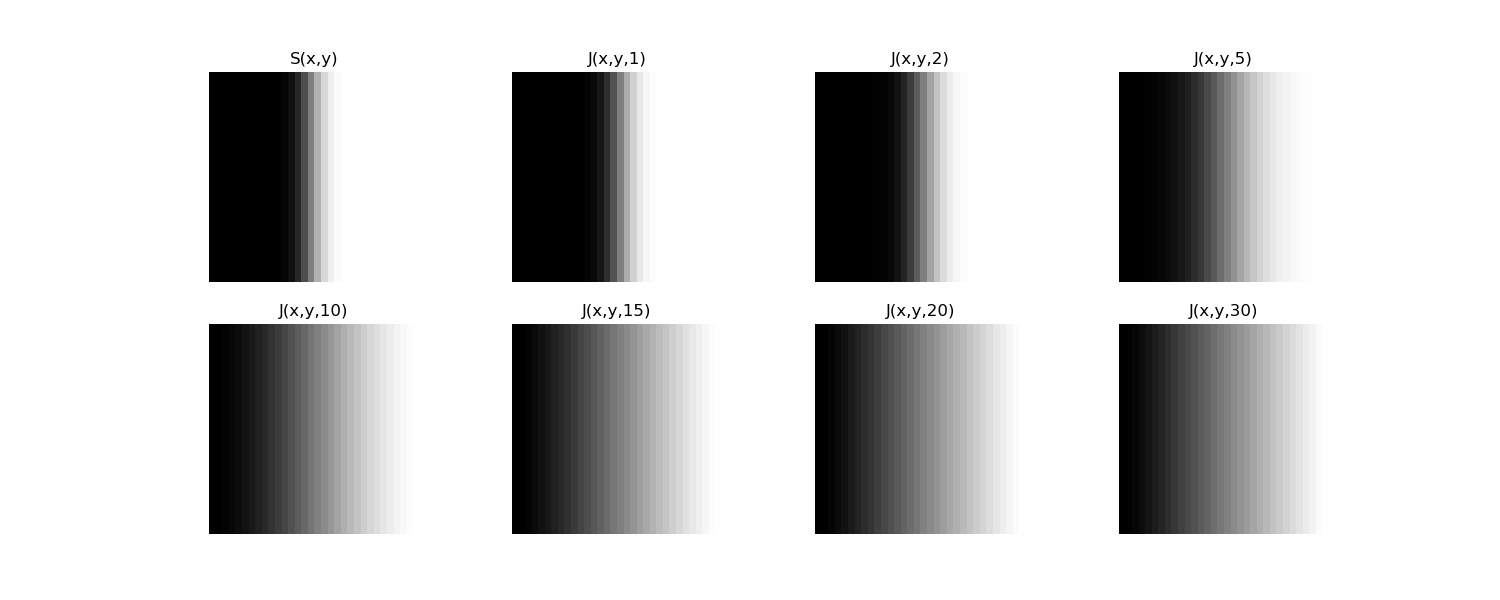
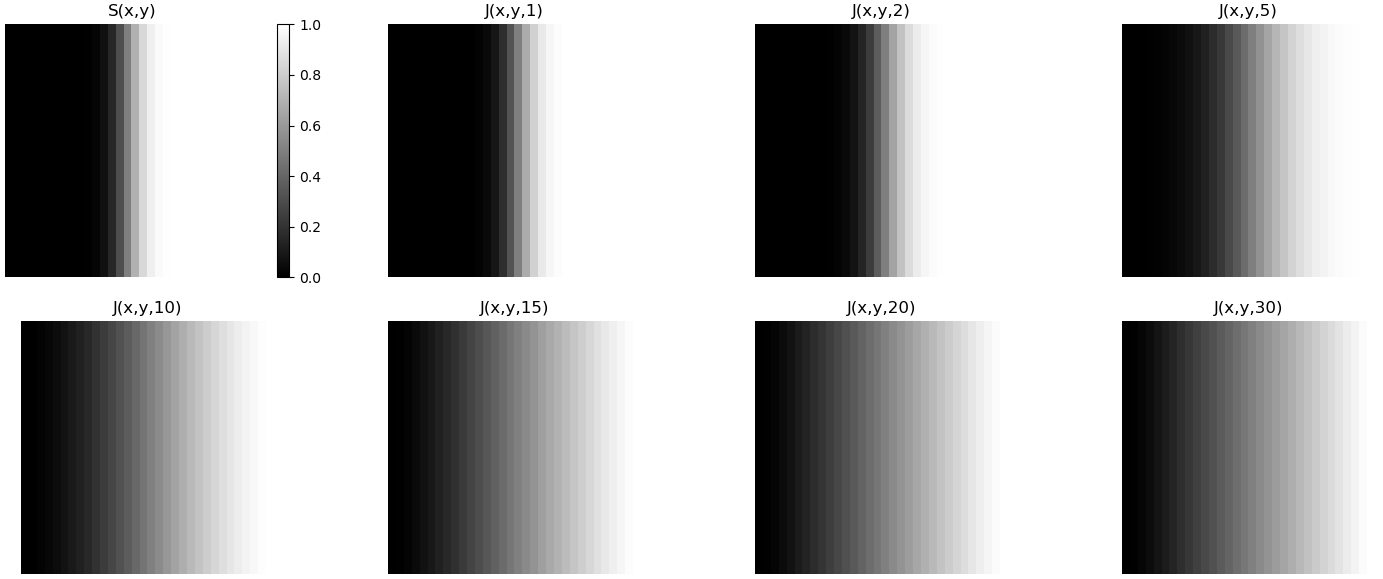
Finalize task 3

diff --git a/Week6/scale_space_edge_detector.py b/Week6/scale_space_edge_detector.py
@@ -39,7 +39,8 @@ def task3_1():
             axs[0][i].axis("off")
 
             
-    axs[0][0].imshow(img, cmap='gray')
+    a = axs[0][0].imshow(img, cmap='gray')
+    fig.colorbar(a, ax=axs[0][0])
     axs[0][0].set_title("S(x,y)")
 
 
